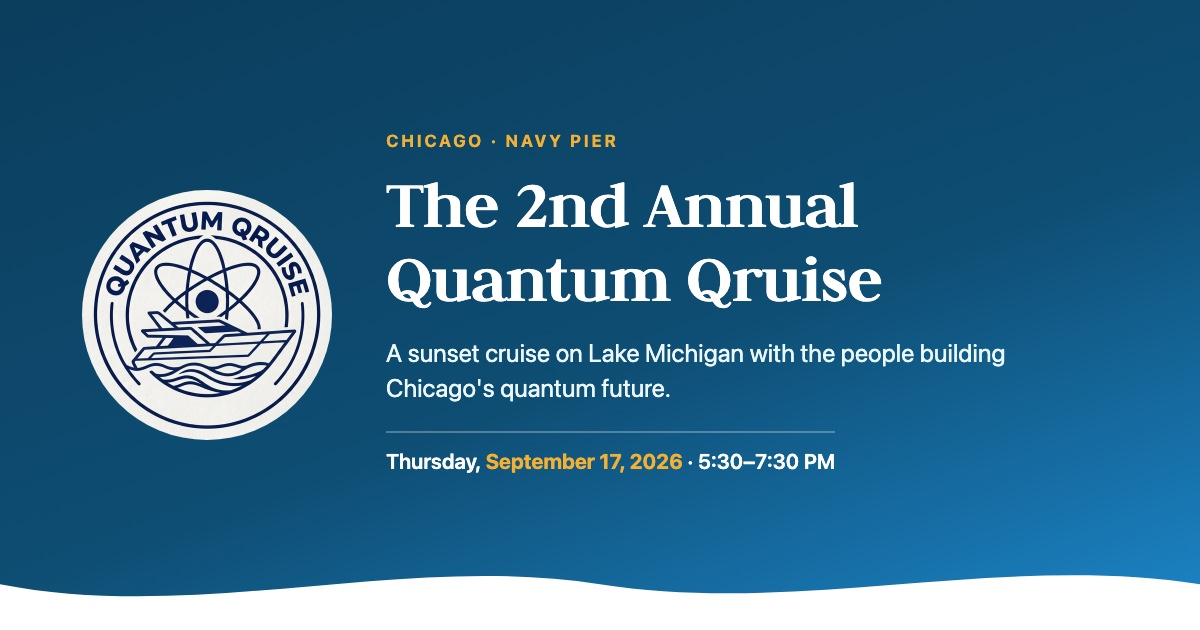
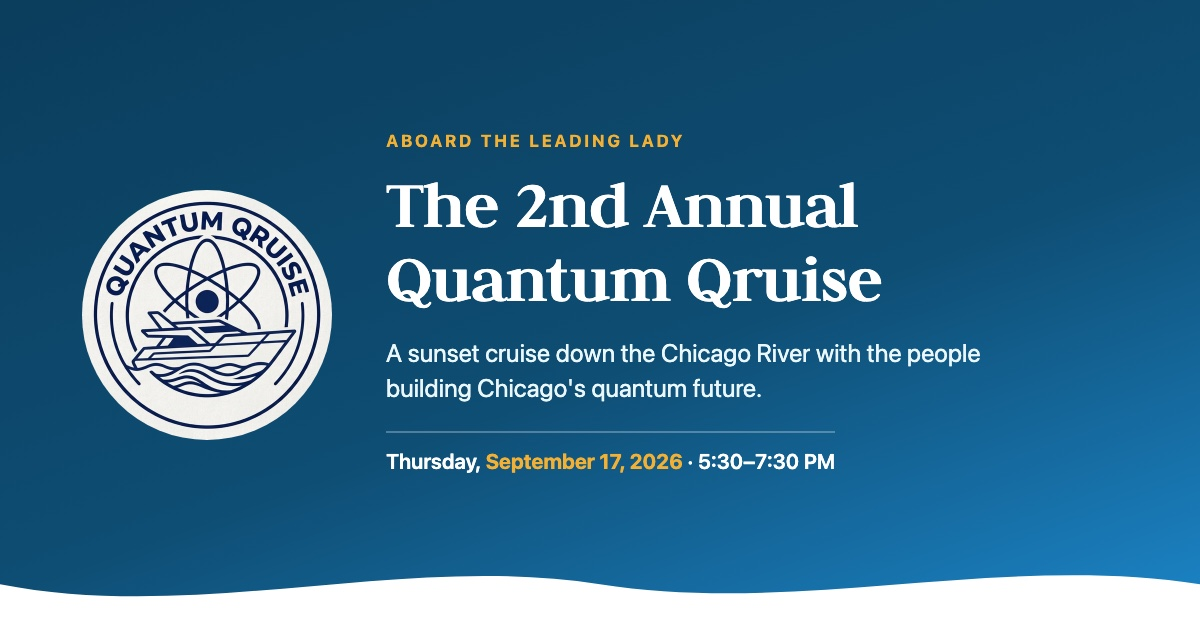
Move the venue to the Leading Lady on the Chicago River
Boarding is now 112 E. Wacker Dr (First Lady Cruises' dock, with
discounted parking across the street at 111) rather than Navy Pier,
and the route is river-only, so all Lake Michigan and pier wording
is out. Social card regenerated to match.

Changed region(s): [[0.3083, 0.5429, 0.8325, 0.6333], [0.3083, 0.2111, 0.5858, 0.2413]]

diff --git a/index.html b/index.html
@@ -4,19 +4,19 @@
 <meta charset="UTF-8">
 <meta name="viewport" content="width=device-width, initial-scale=1.0">
 <title>2nd Annual Quantum Qruise | Chicago</title>
-<meta name="description" content="Join us for the 2nd Annual Quantum Qruise, an evening of frosty beverages, lite bites, music, and nautical fun with Chicago's quantum community at Navy Pier.">
+<meta name="description" content="Join us for the 2nd Annual Quantum Qruise, an evening of frosty beverages, lite bites, music, and nautical fun with Chicago's quantum community aboard the Leading Lady.">
 
 <meta property="og:type" content="website">
 <meta property="og:url" content="https://www.quantumqruise.com/">
 <meta property="og:title" content="The 2nd Annual Quantum Qruise">
-<meta property="og:description" content="Join us for the 2nd Annual Quantum Qruise, an evening of frosty beverages, lite bites, music, and nautical fun with Chicago's quantum community at Navy Pier.">
+<meta property="og:description" content="Join us for the 2nd Annual Quantum Qruise, an evening of frosty beverages, lite bites, music, and nautical fun with Chicago's quantum community aboard the Leading Lady.">
 <meta property="og:image" content="https://www.quantumqruise.com/assets/social-card.jpg">
 <meta property="og:image:width" content="1200">
 <meta property="og:image:height" content="630">
-<meta property="og:image:alt" content="The 2nd Annual Quantum Qruise, Thursday September 17 2026, Navy Pier Chicago">
+<meta property="og:image:alt" content="The 2nd Annual Quantum Qruise, Thursday September 17 2026, aboard the Leading Lady on the Chicago River">
 <meta name="twitter:card" content="summary_large_image">
 <meta name="twitter:title" content="The 2nd Annual Quantum Qruise">
-<meta name="twitter:description" content="Join us for the 2nd Annual Quantum Qruise, an evening of frosty beverages, lite bites, music, and nautical fun with Chicago's quantum community at Navy Pier.">
+<meta name="twitter:description" content="Join us for the 2nd Annual Quantum Qruise, an evening of frosty beverages, lite bites, music, and nautical fun with Chicago's quantum community aboard the Leading Lady.">
 <meta name="twitter:image" content="https://www.quantumqruise.com/assets/social-card.jpg">
 
 <link rel="preconnect" href="https://fonts.googleapis.com">
@@ -49,7 +49,7 @@
 
   <div class="hero-content">
     <h1>The 2nd Annual<br>Quantum Qruise</h1>
-    <p class="hero-tagline">A sunset cruise on Lake Michigan with the people building Chicago's quantum future.</p>
+    <p class="hero-tagline">A sunset cruise down the Chicago River with the people building Chicago's quantum future.</p>
 
     <div class="countdown" id="countdown">
       <div class="countdown-item">
@@ -74,7 +74,7 @@
       </div>
       <div class="hero-fact">
         <span class="hero-fact-label">Where</span>
-        <span class="hero-fact-value">Navy Pier<br>Chicago, IL</span>
+        <span class="hero-fact-value">Aboard the Leading Lady<br>112 E. Wacker Dr, Chicago</span>
       </div>
     </div>
 
@@ -133,7 +133,7 @@
             <svg viewBox="0 0 24 24" aria-hidden="true"><path d="M9 18V5l12-2v13"/><circle cx="6" cy="18" r="3"/><circle cx="18" cy="16" r="3"/></svg>
           </div>
           <h3>Good Vibes</h3>
-          <p>A soundtrack for the evening as the sun sets over the pier.</p>
+          <p>A soundtrack for the evening as the sun sets over the city.</p>
         </div>
 
         <div class="detail-card">
@@ -141,7 +141,7 @@
             <svg viewBox="0 0 24 24" aria-hidden="true"><circle cx="12" cy="5" r="2.3"/><line x1="12" y1="7.3" x2="12" y2="20"/><line x1="7" y1="10" x2="17" y2="10"/><path d="M6 15c0 3 2.7 5 6 5s6-2 6-5"/></svg>
           </div>
           <h3>Nautical Fun</h3>
-          <p>Navy Pier views, lake breeze, and a few surprises along the way.</p>
+          <p>Chicago's skyline and architecture from the water, plus a few surprises along the way.</p>
         </div>
 
         <div class="detail-card">
@@ -207,7 +207,7 @@
 
         <details class="faq-item">
           <summary>Where do we board?</summary>
-          <p>We'll email exact boarding details to everyone who RSVPs as we get closer to the date. Look for the Quantum Qruise team near the dock entrance and we'll point you the right way.</p>
+          <p>We board the Leading Lady at 112 E. Wacker Dr, on the Chicago Riverwalk. Discounted parking is available across the street at 111 E. Wacker Dr. Look for the Quantum Qruise team near the dock and we'll point you the right way.</p>
         </details>
 
         <details class="faq-item">
